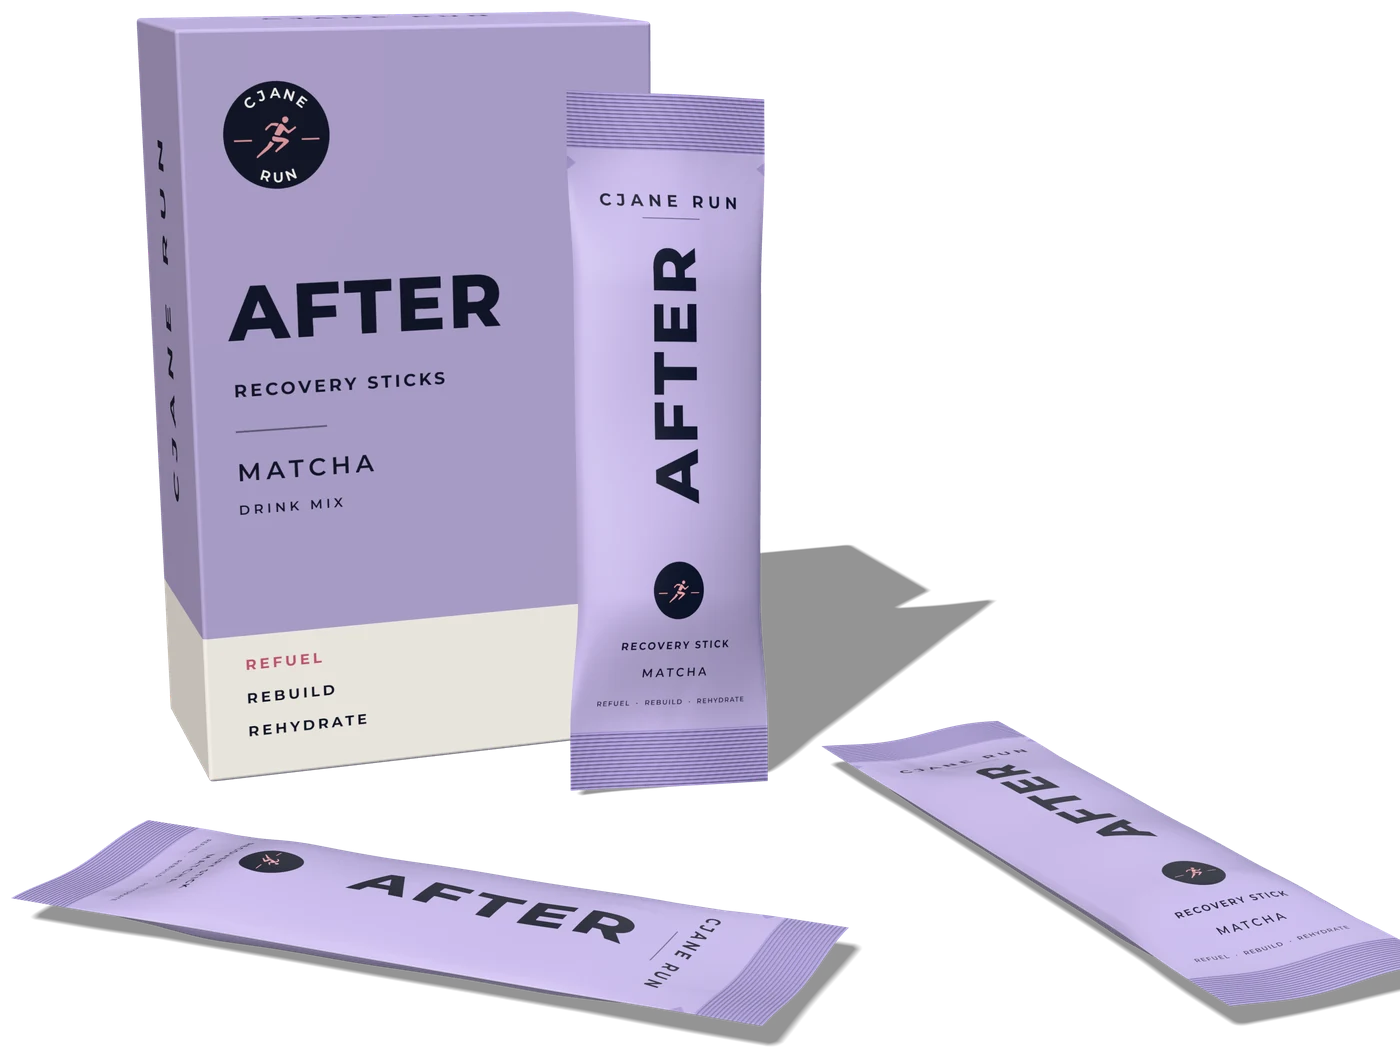
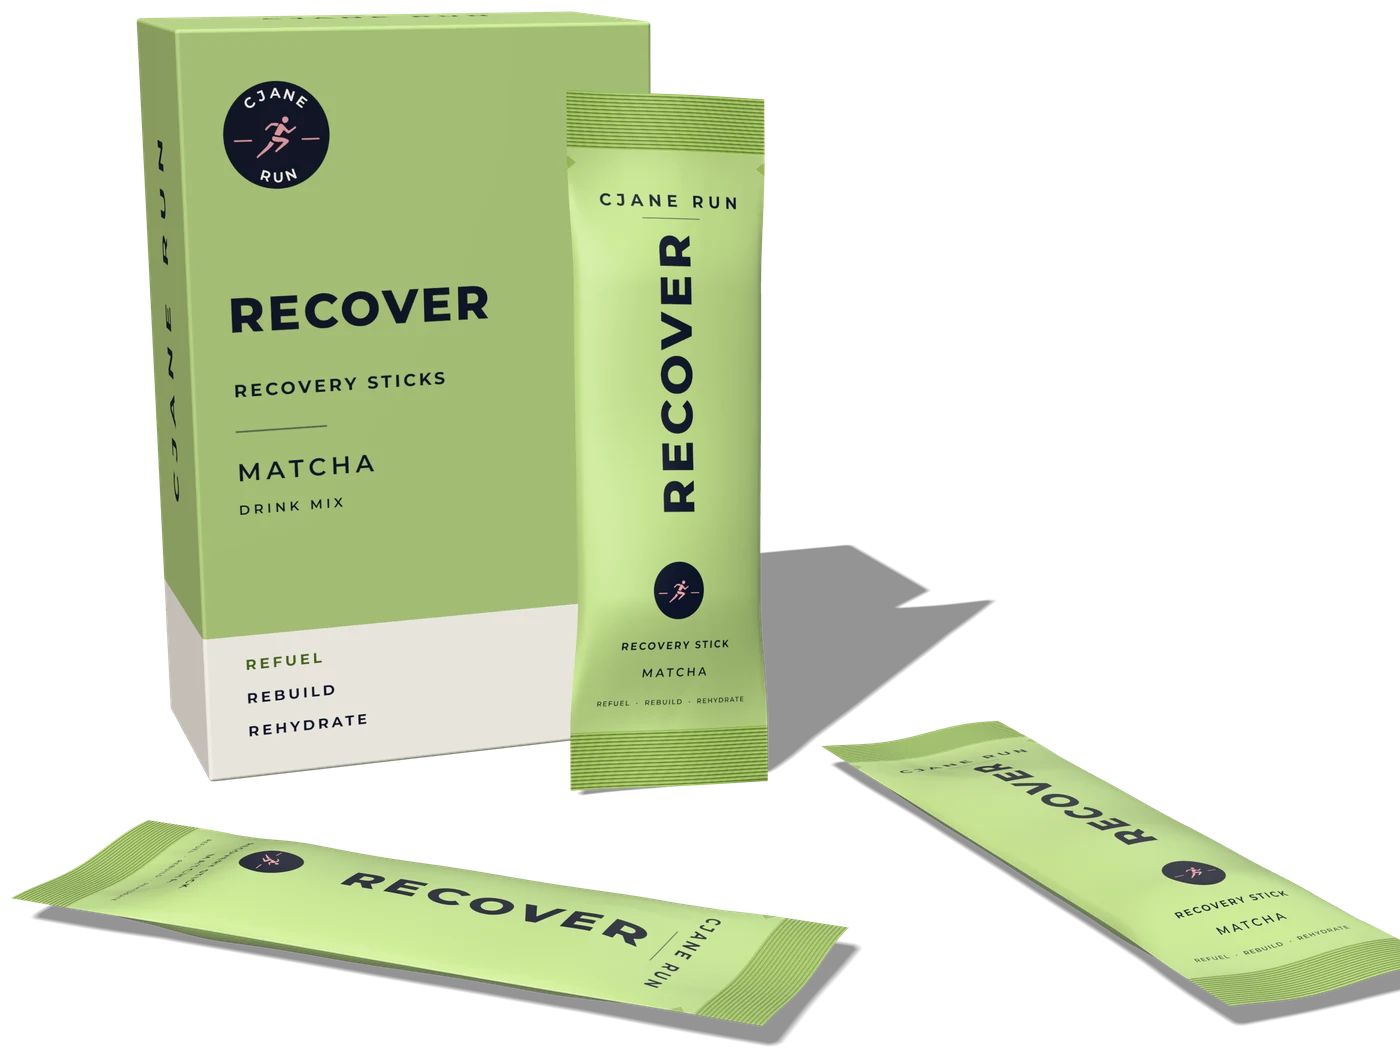
Rename Before/After to LOCK IN/RECOVER, green RECOVER pack, highlight benefits
The CJane Run sticks are now LOCK IN (pink) and RECOVER (matcha green) on
the packs, cartons, product cards, facts-block titles, FAQ and alt text;
renders and share images are regenerated. Both CJane Run products' "Built
for" lines now start with "Built around girls and how they train.", and
Hydration, Steady Energy and Focus show as bold pink pills. Label text
auto-fits so longer product names always fit the pack.

diff --git a/public/index.html b/public/index.html
@@ -103,16 +103,16 @@
     <h2>Two moments. One routine.</h2>
     <p class="lede">Light sticks you mix with water – one before practice, one after. Both fit in your gym bag.</p>
     <article class="product feature m-before">
-        <div class="product-art"><img src="/assets/images/pack-before-single.webp" alt="Pink CJane Run Before stick pack, strawberry"></div>
+        <div class="product-art"><img src="/assets/images/pack-before-single.webp" alt="Pink CJane Run LOCK IN stick pack, strawberry"></div>
         <div class="product-body">
-          <p class="moment">BEFORE</p>
+          <p class="moment">LOCK IN</p>
           <h3>Performance stick</h3>
           <p class="how">Tear, pour into water and shake about 30 minutes before practice or a game.</p>
-          <dl><div><dt>Built for</dt><dd>Hydration, steady energy and focus</dd></div><div><dt>Flavors we’re exploring</dt><dd>Strawberry, mixed berry</dd></div></dl>
+          <dl><div><dt>Built for</dt><dd>Built around girls and how they train.<br><mark>Hydration</mark>, <mark>Steady Energy</mark> and <mark>Focus</mark></dd></div><div><dt>Flavors we’re exploring</dt><dd>Strawberry, mixed berry</dd></div></dl>
         </div>
       </article><div class="inside">
       <div class="inside-copy">
-        <h3>What’s inside the Before stick</h3>
+        <h3>What’s inside LOCK IN</h3>
         <p class="how">One stick, by the numbers.</p>
         <div class="inside-group"><h4>Energy</h4><ul><li><span>Cane sugar + coconut milk</span><span>150 calories</span></li><li><span>Caffeine</span><span>90mg</span></li><li><span>Taurine</span><span>1g</span></li><li><span>Creatine</span><span>3g</span></li><li><span>Beta-alanine</span><span>500mg</span></li><li><span>L-citrulline</span><span>3g</span></li></ul></div><div class="inside-group"><h4>Focus</h4><ul><li><span>L-theanine</span><span>100mg</span></li><li><span>Lion’s mane</span><span>500mg</span></li></ul></div><div class="inside-group"><h4>Hydration</h4><ul><li><span>Sodium</span><span>500mg</span></li><li><span>Potassium</span><span>400mg</span></li><li><span>Magnesium</span><span>300mg</span></li></ul></div>
         <p class="inside-note">Draft formula. These values are estimates and may change before launch.</p>
@@ -133,16 +133,16 @@
 </div>
       </div>
     </div><article class="product feature m-after">
-        <div class="product-art"><img src="/assets/images/pack-after-single.webp" alt="Lavender CJane Run After stick pack, matcha"></div>
+        <div class="product-art"><img src="/assets/images/pack-after-single.webp" alt="Matcha-green CJane Run RECOVER stick pack"></div>
         <div class="product-body">
-          <p class="moment">AFTER</p>
+          <p class="moment">RECOVER</p>
           <h3>Recovery stick</h3>
           <p class="how">Mix with water, or blend into a smoothie after training.</p>
-          <dl><div><dt>Built for</dt><dd>Protein to rebuild, carbs to refuel, electrolytes to rehydrate</dd></div><div><dt>Flavors we’re exploring</dt><dd>Matcha, banana, almond</dd></div></dl>
+          <dl><div><dt>Built for</dt><dd>Built around girls and how they train.<br>Protein to rebuild, carbs to refuel, electrolytes to rehydrate</dd></div><div><dt>Flavors we’re exploring</dt><dd>Matcha, banana, almond</dd></div></dl>
         </div>
       </article><div class="inside">
       <div class="inside-copy">
-        <h3>What’s inside the After stick</h3>
+        <h3>What’s inside RECOVER</h3>
         <p class="how">One stick, by the numbers.</p>
         <div class="inside-group"><h4>Refuel</h4><ul><li><span>Cane sugar + almond milk</span><span>34g carbs</span></li><li><span>Fiber, incl. prebiotic</span><span>7g</span></li></ul></div><div class="inside-group"><h4>Rebuild</h4><ul><li><span>Complete plant protein</span><span>20g</span></li><li><span>Creatine</span><span>3g</span></li><li><span>Matcha</span><span>1g</span></li></ul></div><div class="inside-group"><h4>Rehydrate</h4><ul><li><span>Sodium</span><span>500mg</span></li><li><span>Potassium</span><span>400mg</span></li><li><span>Magnesium</span><span>300mg</span></li></ul></div>
         <p class="inside-note">Draft formula. These values are estimates and may change before launch.</p>
@@ -195,7 +195,7 @@
   <div class="wrap">
     <p class="eyebrow">Questions</p>
     <h2>Good to know</h2>
-    <div class="faq-list"><details><summary>Can I buy it now?</summary><p>Not yet – it’s in development. Join the waitlist and you’ll hear first when it’s ready.</p></details><details><summary>Who is it for?</summary><p>Athletes 13 and up who train seriously – high school, club and college – and the parents and coaches who support them.</p></details><details><summary>Will the Before stick have caffeine?</summary><p>Our current draft has about 90mg per stick – roughly a cup of coffee. We’re also testing a caffeine-free version. Tell us what you’d prefer when you join – it will shape what we make.</p></details><details><summary>What kind of protein is in the After stick?</summary><p>A complete, non-dairy protein – 20g per stick. Our current draft uses a pea and rice blend, and we’ll share the full ingredient list before launch.</p></details><details><summary>Is it right for teen athletes?</summary><p>We’re developing every product with age-appropriate expert guidance, and we’ll share full ingredient lists before launch. Food, water and rest come first – we’re here to make fueling easier, not replace it.</p></details></div>
+    <div class="faq-list"><details><summary>Can I buy it now?</summary><p>Not yet – it’s in development. Join the waitlist and you’ll hear first when it’s ready.</p></details><details><summary>Who is it for?</summary><p>Athletes 13 and up who train seriously – high school, club and college – and the parents and coaches who support them.</p></details><details><summary>Will LOCK IN have caffeine?</summary><p>Our current draft has about 90mg per stick – roughly a cup of coffee. We’re also testing a caffeine-free version. Tell us what you’d prefer when you join – it will shape what we make.</p></details><details><summary>What kind of protein is in RECOVER?</summary><p>A complete, non-dairy protein – 20g per stick. Our current draft uses a pea and rice blend, and we’ll share the full ingredient list before launch.</p></details><details><summary>Is it right for teen athletes?</summary><p>We’re developing every product with age-appropriate expert guidance, and we’ll share full ingredient lists before launch. Food, water and rest come first – we’re here to make fueling easier, not replace it.</p></details></div>
   </div>
 </section>
 </main>

diff --git a/tools/render3d/index.html b/tools/render3d/index.html
@@ -29,13 +29,13 @@ const BOX = { w: 10.4, h: 16.4, d: 5.6 };
 
 const PRODUCTS = {
   before: {
-    brand: 'cjr', body: '#E07A93', dark: '#C55F79', ink: '#FFFFFF', accent: NAVY,
-    word: 'BEFORE', sub: 'PERFORMANCE STICK', flavor: 'STRAWBERRY',
+    brand: 'cjr', body: '#E07A93', dark: '#C55F79', ink: '#FFFFFF', accent: NAVY, hl: '#C9627C',
+    word: 'LOCK IN', sub: 'PERFORMANCE STICK', flavor: 'STRAWBERRY',
     claims: ['ENERGY', 'FOCUS', 'HYDRATION'],
   },
   after: {
-    brand: 'cjr', body: '#B3A9D6', dark: '#9A8FC4', ink: NAVY, accent: NAVY,
-    word: 'AFTER', sub: 'RECOVERY STICK', flavor: 'MATCHA',
+    brand: 'cjr', body: '#AFCB84', dark: '#93B25F', ink: NAVY, accent: NAVY, hl: '#4F6E2A',
+    word: 'RECOVER', sub: 'RECOVERY STICK', flavor: 'MATCHA',
     claims: ['REFUEL', 'REBUILD', 'REHYDRATE'],
   },
   hydration: {
@@ -61,6 +61,16 @@ await Promise.all([
 function rng(seed) {             // small deterministic PRNG
   let s = seed >>> 0;
   return () => ((s = Math.imul(s ^ (s >>> 15), 2246822507) ^ Math.imul(s ^ (s >>> 13), 3266489909), (s ^= s >>> 16) >>> 0) / 4294967296);
+}
+
+// Largest font size (up to maxSize) at which `str` is no wider than maxW.
+function fitSize(str, weight, face, spacing, maxW, maxSize) {
+  const ctx = document.createElement('canvas').getContext('2d');
+  for (let s = maxSize; s > 40; s -= 4) {
+    ctx.font = `${weight} ${s}px ${face}`; ctx.letterSpacing = spacing + 'px';
+    if (ctx.measureText(str).width <= maxW) return s;
+  }
+  return 40;
 }
 
 function canvas(w, h) {
@@ -133,7 +143,7 @@ function stickLabel(p) {
     text(ctx, 'CJANE RUN', mid, CRIMP_PX + 250, '700 84px Montserrat', p.ink, 26);
     ctx.fillStyle = p.ink; ctx.globalAlpha = .55; ctx.fillRect(mid - 150, CRIMP_PX + 330, 300, 5); ctx.globalAlpha = 1;
     ctx.save(); ctx.translate(mid + 20, LH * 0.405); ctx.rotate(-Math.PI / 2);
-    text(ctx, p.word, 0, 0, `800 ${p.word.length > 5 ? 290 : 330}px Montserrat`, p.ink, 26);
+    text(ctx, p.word, 0, 0, `800 ${fitSize(p.word, 800, 'Montserrat', 26, 1400, 330)}px Montserrat`, p.ink, 26);
     ctx.restore();
     badge(ctx, mid, LH * 0.715, 140, false);
     text(ctx, p.sub, mid, LH * 0.795, '700 52px Montserrat', p.ink, 9);
@@ -261,12 +271,12 @@ function boxFace(p, kind) {
     const foot = cjr ? NAVY : p.ink, L = w * 0.085;
     if (cjr) {
       badge(ctx, L + 170, h * 0.135, 170, true);
-      text(ctx, p.word, L - 8, h * 0.37, `800 ${p.word.length > 5 ? 215 : 250}px Montserrat`, p.ink, 10, 'left');
+      text(ctx, p.word, L - 8, h * 0.37, `800 ${fitSize(p.word, 800, 'Montserrat', 10, 880, 250)}px Montserrat`, p.ink, 10, 'left');
       text(ctx, p.sub + 'S', L, h * 0.468, '700 58px Montserrat', p.ink, 10, 'left');
       ctx.fillStyle = p.ink; ctx.globalAlpha = .5; ctx.fillRect(L, h * 0.52, 300, 6); ctx.globalAlpha = 1;
       text(ctx, p.flavor, L, h * 0.578, '600 82px Montserrat', p.ink, 16, 'left');
       text(ctx, 'DRINK MIX', L, h * 0.628, '600 44px Montserrat', p.ink, 12, 'left');
-      p.claims.forEach((c, i) => text(ctx, c, L, h * (0.842 + i * 0.047), '700 50px Montserrat', i ? NAVY : '#C9627C', 10, 'left'));
+      p.claims.forEach((c, i) => text(ctx, c, L, h * (0.842 + i * 0.047), '700 50px Montserrat', i ? NAVY : p.hl, 10, 'left'));
     } else {
       text(ctx, 'everyday', L - 6, h * 0.12, '700 210px Inter', p.ink, -6, 'left');
       iconCircle(ctx, L + 150, h * 0.27, 150, p.icon, p.ink);

diff --git a/public/assets/styles.css b/public/assets/styles.css
@@ -177,9 +177,13 @@ h2 { font-size: clamp(30px, 4.2vw, 46px); font-weight: 700; }
 .product dl { margin: 0; display: grid; gap: 10px; font-size: 15px; }
 .product dt { font-weight: 700; }
 .product dd { margin: 2px 0 0; color: var(--muted); }
+/* Key benefits show as bold pills, e.g. Hydration · Steady Energy · Focus */
+.product dd mark { display: inline-block; margin: 3px 2px 3px 0; padding: 2px 11px 3px; border-radius: 999px; background: var(--pink); color: #fff; font-family: var(--display); font-weight: 700; font-size: 1.05em; letter-spacing: .01em; line-height: 1.35; }
+.theme-everyday .product dd mark { background: var(--navy); }
+.product.feature dd:has(mark) { font-size: 1.05em; line-height: 1.5; }
 
 .m-before .product-art { background: #FBE4EA; } .m-before .moment { color: #C9627C; }
-.m-after .product-art { background: #ECE8F7; } .m-after .moment { color: #7A6DB3; }
+.m-after .product-art { background: #E5EFD3; } .m-after .moment { color: #557333; }
 .m-hydration .product-art { background: #E1F2F6; } .m-hydration .moment { color: #1F7F8C; }
 .m-recovery .product-art { background: #F6EDDF; } .m-recovery .moment { color: #9A6B2F; }
 

diff --git a/tools/build.py b/tools/build.py
@@ -3,12 +3,12 @@
 The Meta test compares two brands, one landing page each: CJane Run and a
 neutral control brand ("Everyday"). Both pages share the same layout, form,
 flavors and structure – only the brand, positioning and formulas change. Each
-page shows its two stick packs (before/after a workout) with a draft facts
+page shows its two stick packs (one for before a workout, one for after) with a draft facts
 panel. Edit copy here, then run:
     python tools/build.py
 
 Pages:
-  /            Ad cell: CJane Run – Before + After sticks
+  /            Ad cell: CJane Run – LOCK IN + RECOVER sticks
   /everyday/   Ad cell: Everyday – Hydration Mix + Recovery Mix (control)
   /privacy/    Privacy policy
 """
@@ -124,20 +124,20 @@ BRANDS = {
 # ---------------------------------------------------------------- products
 
 CJR_BEFORE = {
-    "cls": "m-before", "moment": "BEFORE", "name": "Performance stick", "img": "pack-before-single.webp", "panel": "cjr-before", "inside_title": "What’s inside the Before stick",
-    "alt": "Pink CJane Run Before stick pack, strawberry",
+    "cls": "m-before", "moment": "LOCK IN", "name": "Performance stick", "img": "pack-before-single.webp", "panel": "cjr-before", "inside_title": "What’s inside LOCK IN",
+    "alt": "Pink CJane Run LOCK IN stick pack, strawberry",
     "how": "Tear, pour into water and shake about 30 minutes before practice or a game.",
     "facts": [
-        ("Built for", "Hydration, steady energy and focus"),
+        ("Built for", "Built around girls and how they train.<br><mark>Hydration</mark>, <mark>Steady Energy</mark> and <mark>Focus</mark>"),
         ("Flavors we’re exploring", "Strawberry, mixed berry"),
     ],
 }
 CJR_AFTER = {
-    "cls": "m-after", "moment": "AFTER", "name": "Recovery stick", "img": "pack-after-single.webp", "panel": "cjr-after", "inside_title": "What’s inside the After stick",
-    "alt": "Lavender CJane Run After stick pack, matcha",
+    "cls": "m-after", "moment": "RECOVER", "name": "Recovery stick", "img": "pack-after-single.webp", "panel": "cjr-after", "inside_title": "What’s inside RECOVER",
+    "alt": "Matcha-green CJane Run RECOVER stick pack",
     "how": "Mix with water, or blend into a smoothie after training.",
     "facts": [
-        ("Built for", "Protein to rebuild, carbs to refuel, electrolytes to rehydrate"),
+        ("Built for", "Built around girls and how they train.<br>Protein to rebuild, carbs to refuel, electrolytes to rehydrate"),
         ("Flavors we’re exploring", "Matcha, banana, almond"),
     ],
 }
@@ -399,8 +399,8 @@ PAGES = [
         "products_title": "Two moments. One routine.",
         "products_lede": "Light sticks you mix with water – one before practice, one after. Both fit in your gym bag.",
         "faq": [
-            ("Will the Before stick have caffeine?", CAFFEINE_ANSWER),
-            ("What kind of protein is in the After stick?", PROTEIN_ANSWER),
+            ("Will LOCK IN have caffeine?", CAFFEINE_ANSWER),
+            ("What kind of protein is in RECOVER?", PROTEIN_ANSWER),
             ("Is it right for teen athletes?", TEEN_ANSWER),
         ],
     },

diff --git a/README.md b/README.md
@@ -8,7 +8,7 @@ Klaviyo waitlist with just their email; the page they signed up on
 
 | Page | `signup_page` | Cell |
 |---|---|---|
-| `/` | `cjr` | CJane Run – Before + After sticks |
+| `/` | `cjr` | CJane Run – LOCK IN + RECOVER sticks |
 | `/everyday/` | `everyday` | "Everyday" Hydration Mix + Recovery Mix (neutral control brand) |
 | `/privacy/` | – | Privacy policy |
 
